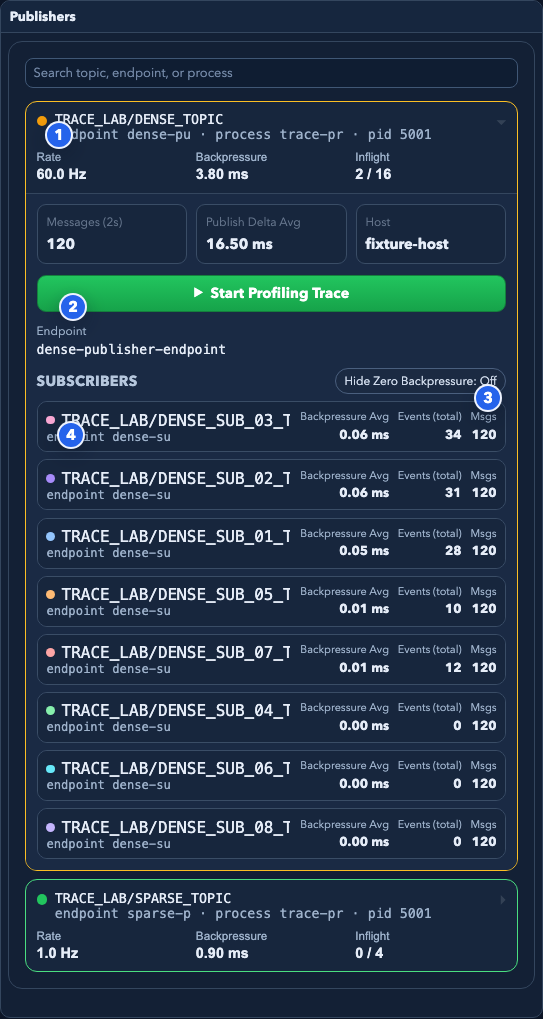
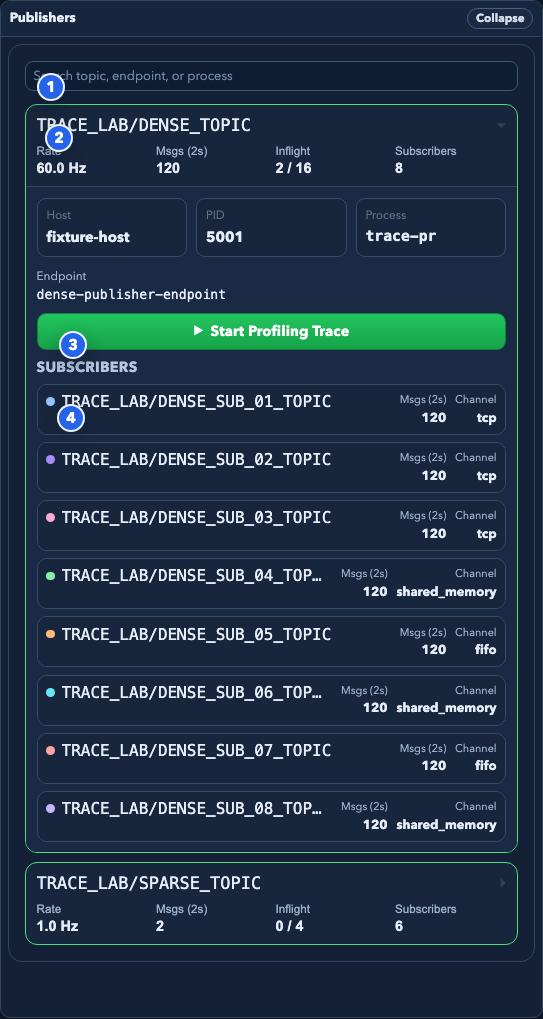
documentation update

diff --git a/README.md b/README.md
@@ -19,7 +19,7 @@ pip install ezmsg ezmsg-dashboard
 
 Runtime installs do not require `npm`. The published wheel/sdist includes a prebuilt frontend bundle that the Python backend serves directly.
 
-User documentation lives in [docs/README.md](/Users/milsagw1/repos/ezmsg-dashboard/docs/README.md).
+Documentation lives in [docs/README.md](/Users/milsagw1/repos/ezmsg-dashboard/docs/README.md).
 
 ## Features
 
@@ -31,44 +31,7 @@ User documentation lives in [docs/README.md](/Users/milsagw1/repos/ezmsg-dashboa
 - Frontend fixture mode for deterministic graph and profiling scenarios
 - Unit, Playwright, and screenshot-based regression tests
 
-## Repository Layout
-
-- `src/ezmsg/dashboard/backend/`: FastAPI backend and `GraphContext` integration
-- `frontend/`: React + TypeScript dashboard UI
-- `tests/backend/`: backend tests
-- `frontend/tests/e2e/`: Playwright end-to-end and screenshot tests
-
-## Requirements
-
-- Python `>=3.11`
-- a local `ezmsg` checkout if you want to use the editable source override already configured in `pyproject.toml`
-- Node.js with npm only if you are developing the frontend or refreshing the packaged frontend bundle for a release
-
-The repo currently expects:
-
-```toml
-[tool.uv.sources]
-ezmsg = { path = "../ezmsg", editable = true }
-```
-
-If your local `ezmsg` checkout lives somewhere else, update that path or remove the override.
-
-## Setup
-
-Install Python dependencies:
-
-```bash
-uv sync --group dev
-```
-
-Install frontend dependencies:
-
-```bash
-cd frontend
-npm install
-```
-
-## Running Locally
+## Running
 
 ### End-user runtime
 
@@ -92,118 +55,7 @@ If you want core `ezmsg` to host the graph server and dashboard together:
 ezmsg serve --dashboard
 ```
 
-### Development mode
-
-Run the backend API:
-
-```bash
-uv run uvicorn ezmsg.dashboard.backend.app:app --reload --port 8000
-```
-
-Run the frontend dev server in a separate terminal:
-
-```bash
-cd frontend
-npm run dev
-```
-
-In development, Vite serves the frontend and proxies API traffic to the Python backend. In release mode, the Python package serves both.
-
-The backend serves:
-
-- `GET /api/health`
-- `GET /api/snapshot`
-- `GET /api/settings`
-- `POST /api/settings/{component_address}/field`
-- `POST /api/profiling/trace-control`
-- `WS /ws/events`
-
-## Testing
-
-Backend tests:
-
-```bash
-PYTHONPYCACHEPREFIX=/tmp/pycache .venv/bin/pytest tests/backend -q
-```
-
-Frontend unit tests:
-
-```bash
-cd frontend
-npm test
-```
-
-Frontend end-to-end tests:
-
-```bash
-cd frontend
-npm run test:e2e
-```
-
-Refresh Playwright screenshot baselines intentionally:
-
-```bash
-cd frontend
-npm run test:e2e:update-snapshots
-```
-
-Verify the vendored frontend bundle matches `frontend/dist`:
-
-```bash
-uv run python -m ezmsg.dashboard.build_frontend --check
-```
-
-## Frontend Fixture Mode
-
-The frontend includes deterministic fixture scenarios for stress-testing layout and inspector behavior without a live backend.
-
-Examples:
-
-- `/?fixture=long-labels`
-- `/?fixture=nested-collections`
-- `/?fixture=massive-fanout`
-- `/?fixture=dense-unit-layout`
-- `/?fixture=cyclic-feedback`
-- `/?fixture=profiling-trace-rates`
-
-These fixtures are used by Playwright to validate:
-
-- graph readability
-- scope navigation
-- long-label behavior
-- dense and cyclic graph layout
-- publisher/subscriber inspector behavior
-- sparse and dense profiling traces
-- screenshot-based visual regressions on curated graph states
-
-## Development Notes
-
-- The frontend test strategy is intentionally mixed:
-  - unit tests for pure topology and selection helpers
-  - Playwright interaction tests for graph and inspector behavior
-  - a small set of screenshot baselines for high-value readability checks
-- The screenshot suite is intentionally narrow. It is meant to catch meaningful visual regressions, not lock the UI to exact pixel output everywhere.
-
-## Release Workflow
-
-When the frontend changes, refresh the packaged assets before publishing:
-
-```bash
-cd frontend
-npm ci
-npm run build
-cd ..
-uv run python -m ezmsg.dashboard.build_frontend
-```
-
-Then verify the package and tests:
-
-```bash
-PYTHONPYCACHEPREFIX=/tmp/pycache .venv/bin/pytest tests/backend -q
-uv run python -m build
-```
-
-The `_web/` bundle under `src/ezmsg/dashboard/` is part of the Python package and should be updated as part of the release.
+For local setup, development mode, testing, fixture scenarios, and release steps, use the [Development Guide](/Users/milsagw1/repos/ezmsg-dashboard/docs/development.md).
 
 ## License
 

diff --git a/docs/user-guide.md b/docs/user-guide.md
@@ -27,7 +27,7 @@ The dashboard has three major areas:
 
 - Click a unit to focus it in **Settings**.
 - Click a publisher or subscriber stream to focus it in **Publishers** and fit the topology view.
-- Use the top-right shortcuts to toggle layout direction and theme.
+- Use the floating viewport shortcuts to toggle layout direction, theme, or open global settings.
 - Use `Open` on a collection to descend into that scope.
 - Use `Up` or breadcrumbs to move back out.
 
@@ -52,7 +52,7 @@ The dashboard has three major areas:
 
 - Only components with patchable settings can be edited.
 - Patchable components are marked `PATCHABLE`.
-- Read-only components are shown but cannot be modified.
+- Read-only components are marked `READ ONLY`.
 - The dashboard patches one field at a time.
 - Successful patches show a short applied status inline.
 - Failed patches show an inline error.
@@ -69,10 +69,12 @@ The dashboard has three major areas:
 
 ![Annotated publishers panel](./screenshots/publishers-panel.png)
 
-1. **Publisher row**: surfaces always-on snapshot metrics for a publisher topic.
-2. **Trace control**: starts or stops profiling trace capture for the selected publisher endpoint.
-3. **Subscriber filter**: hides subscribers with zero messages in the current snapshot window.
-4. **Subscriber row**: shows the subscriber topic, host, channel kind, and snapshot message count.
+The Publishers pane currently centers on four things:
+
+1. **Search**: filter publisher rows by topic, endpoint, or process id.
+2. **Publisher row**: surfaces always-on snapshot metrics for a publisher topic.
+3. **Trace control**: starts or stops profiling trace capture for the selected publisher endpoint.
+4. **Subscriber row**: shows the subscriber topic, channel kind, and snapshot message count. Expanding one shows host, pid, process id, and endpoint id.
 
 ### Typical Workflow
 
@@ -86,10 +88,12 @@ The dashboard has three major areas:
 
 ![Annotated trace dock](./screenshots/trace-dock.png)
 
+The trace dock exposes five main controls and readouts:
+
 1. **Window**: controls how many seconds of trace history are visible.
-2. **Subscriber metric selector**: switches subscriber traces between lease time and user span.
-3. **Publish Delta key**: identifies the fixed publisher cadence trace.
-4. **Y max**: fixes the Y scale instead of using auto-scaling.
+2. **Lease Time toggle**: shows per-subscriber lease timing traces.
+3. **User Span toggle**: shows per-subscriber user-code span traces.
+4. **Y max / Auto-Fixed**: sets a manual ceiling or lets the trace dock auto-scale the vertical axis.
 5. **Trace canvas**: plots publish delta, lease time, and user span series over time.
 
 ### Trace Workflow
@@ -97,8 +101,8 @@ The dashboard has three major areas:
 1. Start profiling trace from a publisher row.
 2. Wait for the trace dock to populate.
 3. Adjust the time window if the graph is too sparse or too dense.
-4. Switch the subscriber metric between lease time and user span as needed.
-5. Lock `Y max` if the auto scale is making comparisons hard.
+4. Switch between `Lease Time` and `User Span` as needed.
+5. Switch `Y max` from `Auto` to `Fixed` if the auto scale is making comparisons hard.
 
 ## Theme And Layout Controls
 
@@ -106,13 +110,13 @@ The top-right dock in the topology viewport contains:
 
 - **Layout toggle**: left-to-right vs top-to-bottom
 - **Theme toggle**: light vs dark
-- **Global settings**: snapshot interval, default layout, legend/minimap visibility, trace defaults, inspector width, and auto-fit/auto-focus behaviors
+- **Global settings**: snapshot poll frequency, theme, default layout, edge connector type, default trace metrics, inspector width, legend/minimap visibility, and auto-fit/auto-focus behaviors
 
 ## Good Troubleshooting Patterns
 
 - If the graph is visually dense, switch layout direction.
 - If the inspector feels cramped, increase inspector width in global settings.
-- If the publisher list is noisy, use search and the idle-subscriber filter.
+- If the publisher list is noisy, use the publisher search box to narrow by topic, endpoint, or process.
 - If a trace looks flat or over-compressed, adjust `Window (s)` or switch `Y max` from `Auto` to `Fixed`.
 - If a component is not editable, check whether it is marked `PATCHABLE` in Settings.
 

diff --git a/docs/README.md b/docs/README.md
@@ -2,6 +2,8 @@
 
 - [User Guide](./user-guide.md)
 - [Metrics Reference](./metrics-reference.md)
+- [Development Guide](./development.md)
+- [Code Tour](./code-tour.md)
 
 This initial docs set is fixture-backed and written against the current MVP dashboard behavior.
 
